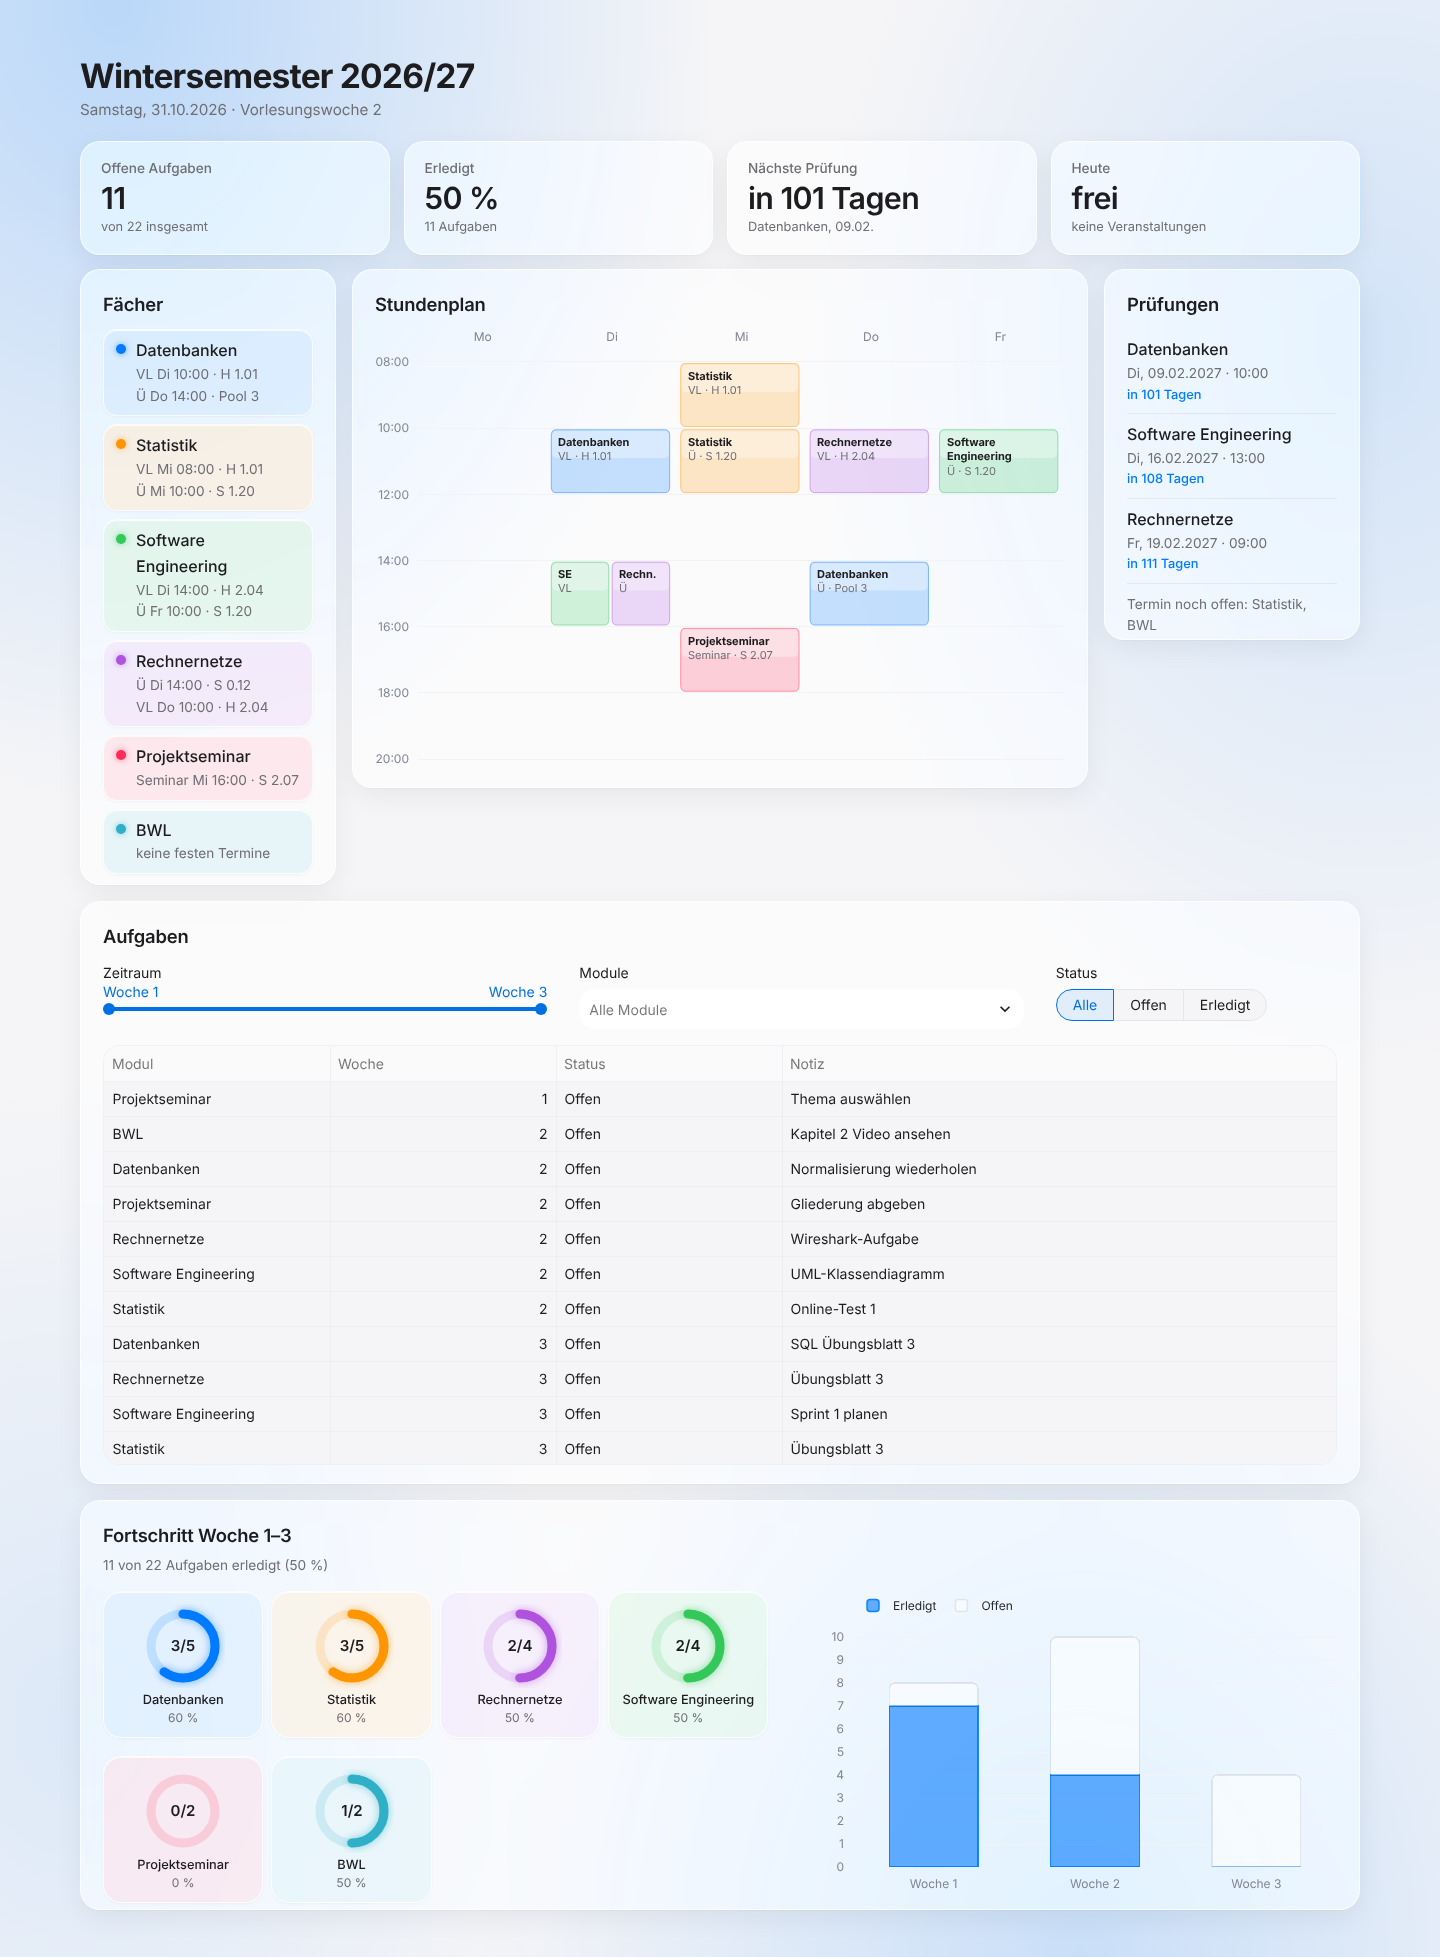
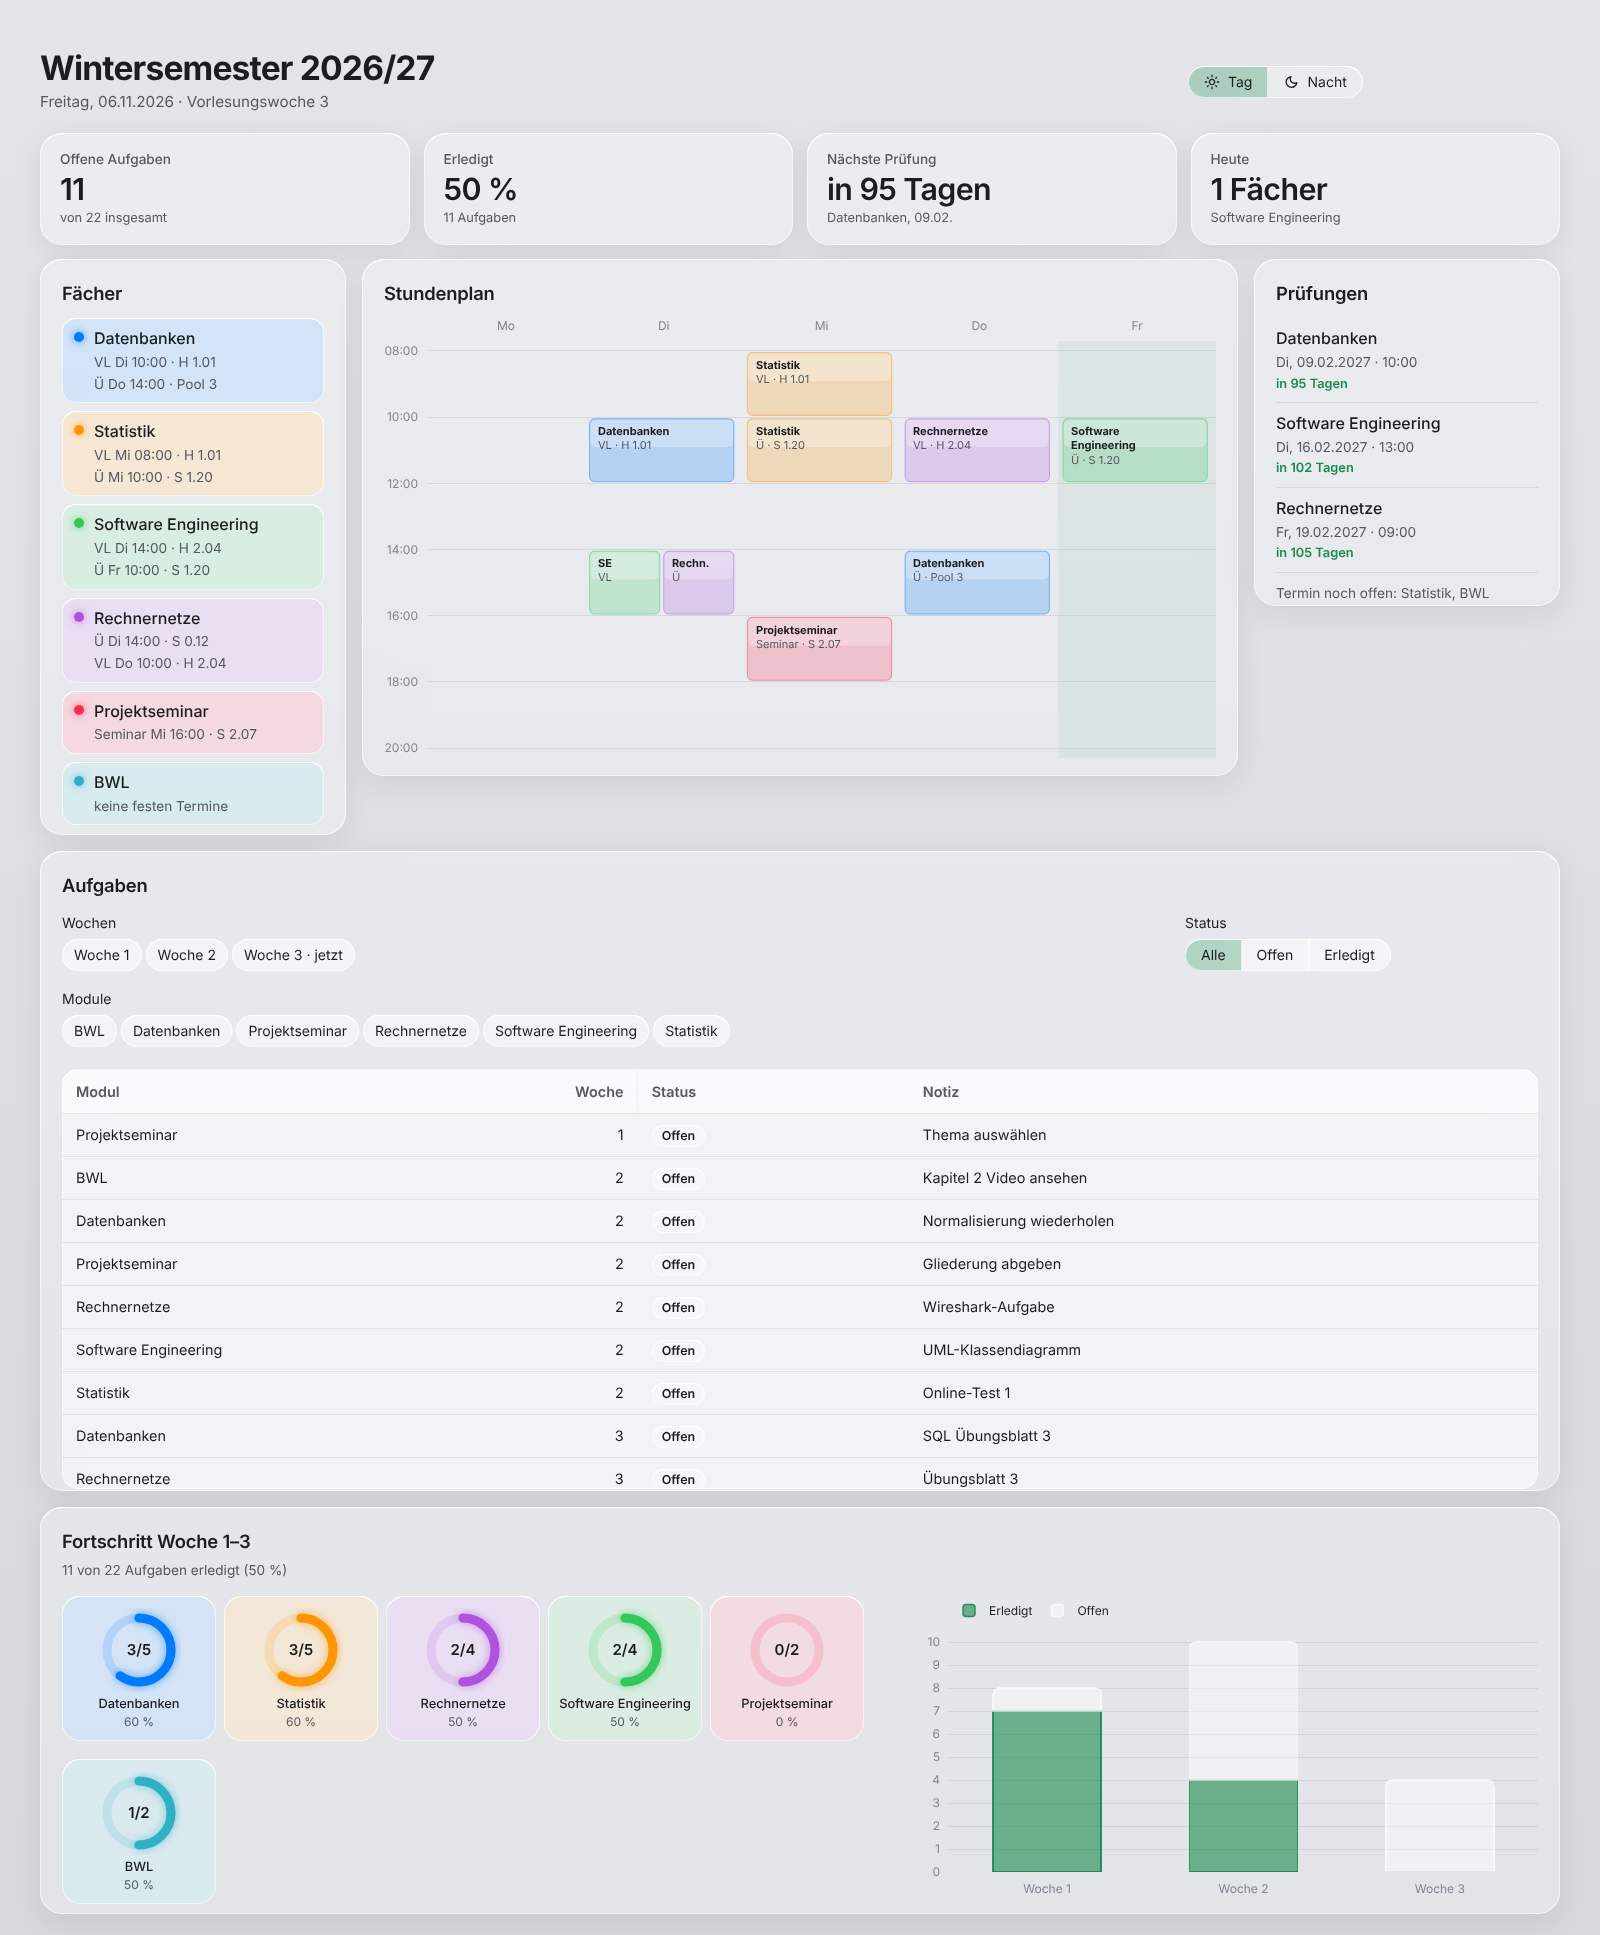
README und Screenshot auf aktuellen Stand gebracht

diff --git a/README.md b/README.md
@@ -10,10 +10,11 @@ das Dashboard liest sie bei jedem Neuladen ein.
 
 ## Funktionen
 
-- Stundenplan als Wochenraster, parallele Termine nebeneinander
+- Stundenplan als Wochenraster, parallele Termine nebeneinander, der heutige Tag hervorgehoben
 - Prüfungen mit Countdown, nicht feststehende Termine gesammelt
-- Aufgabenliste mit Filter nach Zeitraum (Vorlesungswochen), Modul und Status
-- Fortschrittsring je Fach und Säulen je Woche, passen sich dem gewählten Zeitraum an
+- Aufgabenliste mit Filtern zum Anklicken: Wochen, Module und Status (startet auf „Offen“)
+- Fortschrittsring je Fach und Säulen je Woche, passen sich den gewählten Filtern an
+- Tag- und Nachtmodus mit Glasflächen; beim Öffnen nach Uhrzeit gewählt (19–7 Uhr Nacht), jederzeit umschaltbar
 - Aktualisiert sich selbst, sobald die Excel-Datei gespeichert wird
 
 ## Starten
@@ -28,14 +29,23 @@ pip install -r requirements.txt
 streamlit run app.py
 ```
 
-Ohne eigene `uni.xlsx` startet das Dashboard mit `beispiel.xlsx`.
+Das Dashboard sucht die Excel-Datei in dieser Reihenfolge:
+
+1. den Pfad in `excel_pfad.txt` im Projektordner, z. B. `C:\Users\name\Desktop\UNI.xlsx`
+   (so kann die Tabelle liegen, wo man will)
+2. `uni.xlsx` im Projektordner
+3. `beispiel.xlsx` mit Beispieldaten
 
 ### Als Desktop-Programm (Windows)
 
 Nach der Einrichtung oben einmal `verknuepfung_erstellen.bat` ausführen. Auf dem
 Desktop liegt dann „Uni-Dashboard“: startet den Server im Hintergrund (ohne
-Konsolenfenster) und öffnet das Dashboard als eigenes Fenster. Fehlermeldungen
-landen in `dashboard.log`.
+Konsolenfenster) und öffnet das Dashboard als eigenes, maximiertes Fenster.
+Fehlermeldungen landen in `dashboard.log`.
+
+Excel sperrt die Datei beim automatischen Speichern in OneDrive. Damit das
+Dashboard sie auch bei geöffneter Tabelle lesen kann, in Excel „Automatisches
+Speichern“ ausschalten und mit Strg+S speichern.
 
 ### Offline
 
@@ -50,9 +60,12 @@ Streamlit sind abgeschaltet.
 |---|---|
 | `Fächer` | Fächer, Vorlesung, Übung, Prüfung (z. B. `11.02, 9:00` oder `TBA`) |
 | `Stundenplan` | Fach, Art, Tag (`Mo`–`Fr`), Von, Bis, Raum |
-| `Aufgabenliste` | Modul, Woche, Status (`Done` oder `X`), Notiz |
+| `Aufgabenliste` | Modul, Woche, Status (`Done` oder `X`), Notiz; optional Frist (`\` = keine Frist) |
 
-Die eigene `uni.xlsx` steht in `.gitignore` und wird nicht hochgeladen.
+In der Aufgabenliste werden die Spalten über ihre Überschrift gefunden, weitere
+Spalten dürfen an beliebiger Stelle stehen.
+
+`uni.xlsx` und `excel_pfad.txt` stehen in `.gitignore` und werden nicht hochgeladen.
 
 ## Projektstruktur
 
@@ -60,7 +73,7 @@ Die eigene `uni.xlsx` steht in `.gitignore` und wird nicht hochgeladen.
 app.py            Oberfläche (Streamlit)
 grafiken.py       Diagramme, Fortschrittsringe und Aufgabentabelle
 themen.py         Farben für Tag- und Nachtmodus
-stil.css          Gestaltung (Karten, Kennzahlen, Ringe)
+stil.css          Gestaltung (Glasflächen, Karten, Filter), Farben aus themen.py
 starten.pyw       Start als Desktop-Programm
 daten.py          Einlesen und Aufbereiten der Excel-Blätter
 pyproject.toml    Projektdaten, ruff- und pytest-Einstellungen
@@ -89,7 +102,8 @@ pytest         # Tests in tests/ und Beispiele in den Docstrings
 - [x] GitHub Actions (Lint und Tests)
 - [ ] Paketversionen festlegen und automatisch auf Sicherheitslücken prüfen (Dependabot, pip-audit)
 - [ ] Betrieb im Homelab
-- [ ] Deadlines: Spalte „Fällig am“ in der Aufgabenliste, Anzeige „Diese Woche fällig“, Überfälliges hervorheben
+- [x] Tag- und Nachtmodus
+- [ ] Fristen: Spalte „Frist“ auswerten, Anzeige „Diese Woche fällig“, Überfälliges hervorheben
 - [ ] Wochenrückblick: erledigte Aufgaben der letzten Woche im Vergleich zur Vorwoche
 - [ ] Uni-Mails unten im Dashboard anzeigen (IMAP, nur lesend, Passwort in der Windows-Anmeldeinformationsverwaltung)
 
